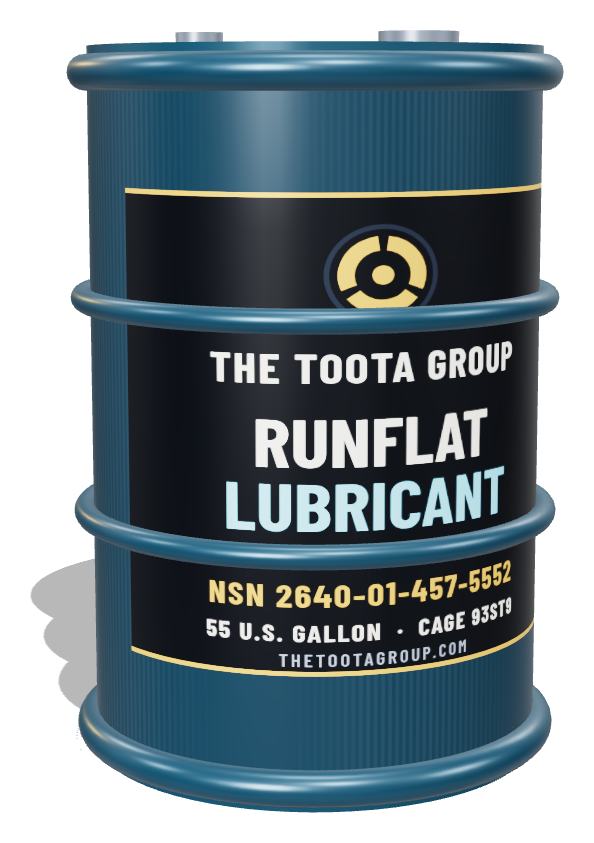
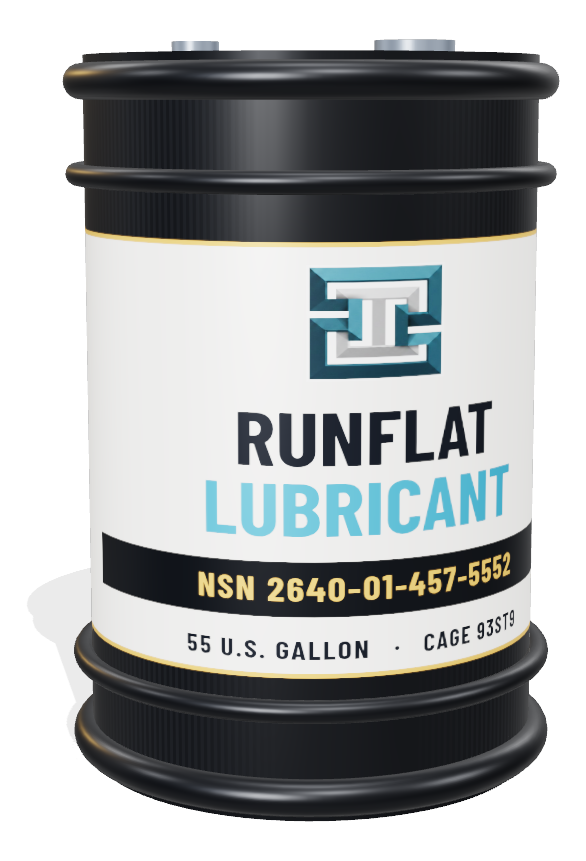
Re-render lube products to match real brand
- Drum: black body with white label band matching the real product,
  real Toota monogram, black RUNFLAT / blue LUBRICANT, gold NSN
  2640-01-457-5552 on dark strip, 55 U.S. GALLON / CAGE 93ST9
- Tube: swap placeholder emblem for the real Toota monogram
- Fix tube alt text (12 fl oz)

diff --git a/runflats.html b/runflats.html
@@ -242,7 +242,7 @@
       </div>
       <div class="product-grid reveal">
         <figure class="product-card">
-          <div class="product-media"><img src="assets/img/lubricant-tube.png" alt="RunFlat Lubricant applicator tube, 10.1 fl oz"></div>
+          <div class="product-media"><img src="assets/img/lubricant-tube.png" alt="RunFlat Lubricant applicator tube, 12 fl oz"></div>
           <div class="product-body">
             <h3>Applicator Tube</h3>
             <p class="product-spec">12 fl oz (355 mL) · Standard cartridge</p>
